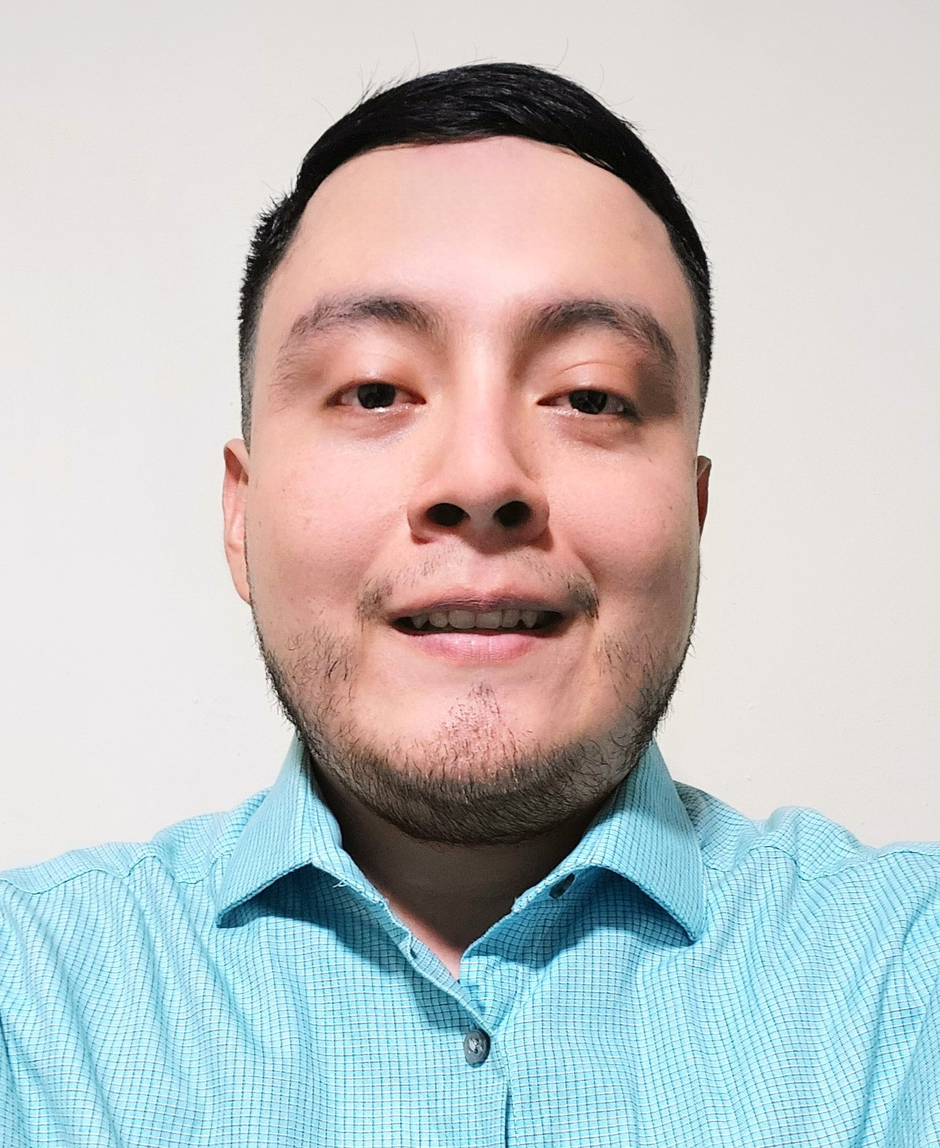
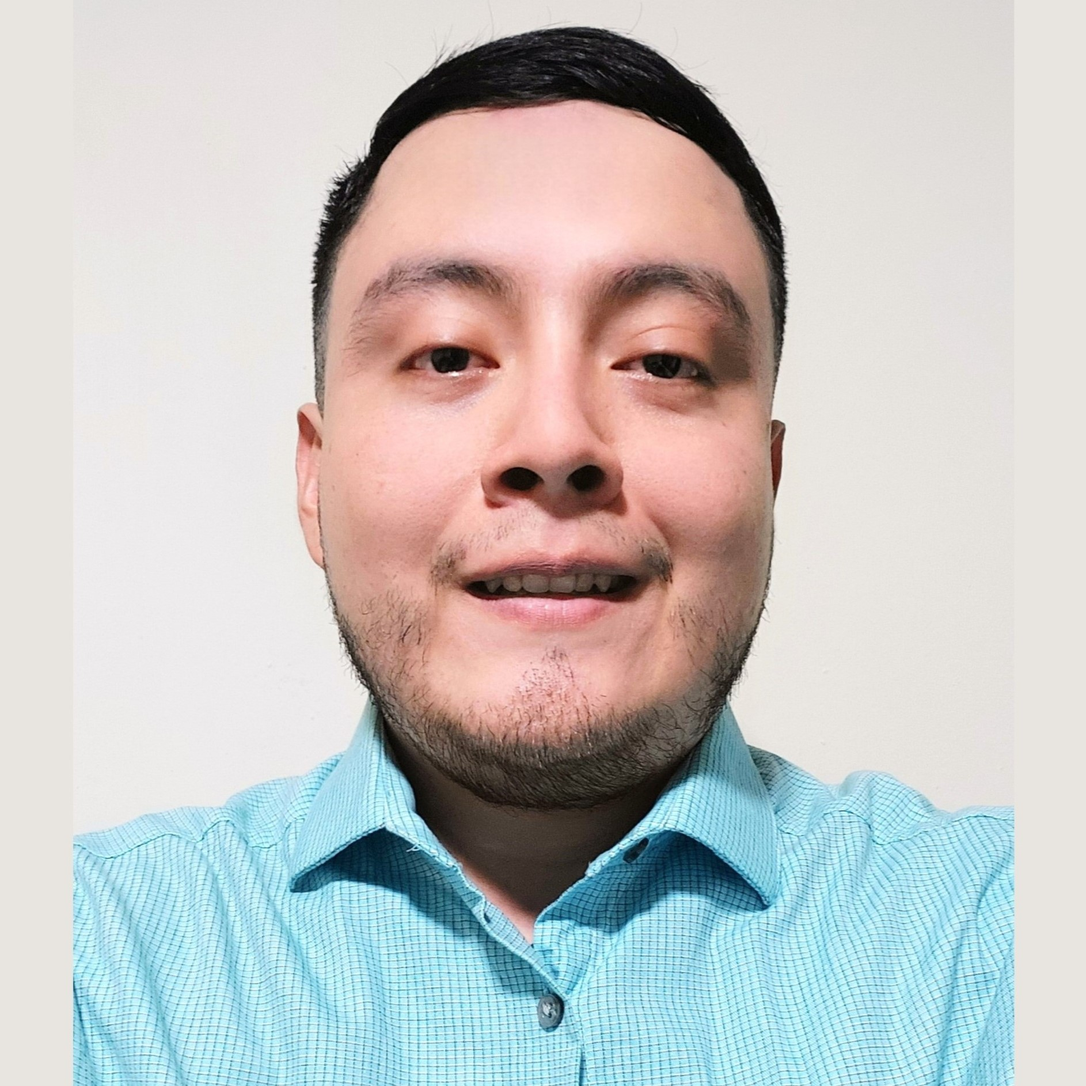
CV_10: Ajustes menores para comenzar lo siguiente parte I

diff --git a/src/app/components/cards/02_contact/Contact.js b/src/app/components/cards/02_contact/Contact.js
@@ -11,11 +11,13 @@ import { faLinkedin } from "@fortawesome/free-brands-svg-icons";
 import "./Contact.scss";
 import Link from "next/link";
 
+const title = "CONTACTO";
+
 let contactData = [
   {
     id: 1,
     icon: faPhone,
-    description: "+503 7989-9172",
+    description: "(503) 7989-9172",
   },
   {
     id: 2,
@@ -30,34 +32,34 @@ let contactData = [
   },
   {
     id: 4,
-    icon: faLocationDot,
-    description: "Apopa, San Salvador",
-  },
-  {
-    id: 5,
     icon: faGlobe,
     description: "Sitio Web",
     url: "https://isaac953.github.io/Portfolio_Angular/home"
   },
   {
-    id: 6,
-    icon: faFileLines,
-    description: "Certificados",
-    url: "https://drive.google.com/drive/folders/1TZRT3fDr4ssvVEgzzyvSfofsoNMXS9pU"
+    id: 5,
+    icon: faLocationDot,
+    description: "Apopa, San Salvador",
   },
+  // {
+  //   id: 6,
+  //   icon: faFileLines,
+  //   description: "Certificados",
+  //   url: "https://drive.google.com/drive/folders/1TZRT3fDr4ssvVEgzzyvSfofsoNMXS9pU"
+  // },
 ];
 
 export const Contact = () => {
   return (
     <section className="contact-card">
-      <h2>Contacto</h2>
+      <h2>{title}</h2>
       {contactData.map((item) => (
         <div key={item.id}>
           <FontAwesomeIcon icon={item.icon} className="font-icon" />
 
           {/* url Hidden no exist */}
           {item.url ? (
-            <Link href={{ pathname: item.url }} target="_blank">
+            <Link href={{ pathname: item.url }} target="_blank" title={item.description}>
               {item.description}
             </Link>
           ) : (

diff --git a/src/app/components/Main.js b/src/app/components/Main.js
@@ -6,20 +6,8 @@ import { Photo } from "./cards/01_photo/Photo";
 import { Contact } from "./cards/02_contact/Contact";
 import { Profile } from "./cards/03_Profile/Profile";
 import { About } from "./cards/04_about/About";
-import ReactDOM from 'react-dom';
-import { PDFViewer } from '@react-pdf/renderer';
-
-import ReactPDF from '@react-pdf/renderer';
-import { PDFDownloadLink, Document, Page } from '@react-pdf/renderer'
-import { MyDocument } from "./cards/MyDocument";
-import { createRoot } from 'react-dom/client';
-import { ViewPDF } from "./cards/ViewPDF";
-
-
 
 export const Main = () => {
-
-
   return (
     <main>
       
@@ -35,8 +23,6 @@ export const Main = () => {
         <About />
         <hr className="hr-bg"></hr>
       </section>  
-
-      {/* <ViewPDF /> */}
 
     </main>
 

diff --git a/src/app/components/cards/03_Profile/Profile.js b/src/app/components/cards/03_Profile/Profile.js
@@ -1,13 +1,13 @@
-import React from 'react';
+import React from "react";
 import "./Profile.scss";
 
 export const Profile = () => {
   let profName = "Isaac Arias";
-  let profTitle = "Ingeniero en Sistemas y Computación"
+  let profTitle = "INGENIERO EN SISTEMAS Y COMPUTACIÓN";
   return (
-    <section className='profile-card'>
-    <span className='name'>{profName}</span>
-    <span className='title'>{profTitle}</span>
+    <section className="profile-card">
+      <span className="name">{profName}</span>
+      <span className="title">{profTitle}</span>
     </section>
-  )
-}
+  );
+};

diff --git a/src/app/components/cards/04_about/About.js b/src/app/components/cards/04_about/About.js
@@ -2,7 +2,7 @@ import React from "react";
 import "./About.scss";
 
 export const About = () => {
-  const title = "Acerca de mí";
+  const title = "ACERCA DE MÍ";
   const description ="Soy Ingeniero en Sistemas y Computación con experiencia en el área de programación de aplicaciones web \
    en el cual he trabajado en base a objetivos brindando soluciones de manera creativa y optima para empresas de tecnología, \
     industriales y ONGs.";

diff --git a/src/app/components/cards/02_contact/Contact.scss b/src/app/components/cards/02_contact/Contact.scss
@@ -22,14 +22,15 @@ h2{
 }
 
 .contact-card span{
-    font-size: 14px;
+    font-size: 16px;
 }
 
 .contact-card a {
-    font-size: 14px;
+    font-size: 16px;
     cursor: pointer;
-    text-decoration: none;
+    text-decoration: underline;
     color: white;
+
 }
 
 .contact-card a:visited {
@@ -37,7 +38,7 @@ h2{
   }
 
 .font-icon{
-    width: 26px;
+    width: 28px;
     height: fit-content;
     margin: 5px;
 }

diff --git a/src/app/components/cards/03_Profile/Profile.scss b/src/app/components/cards/03_Profile/Profile.scss
@@ -9,16 +9,15 @@
     padding-bottom: 15px;
     @include display-flex;
     align-items: flex-start;
+    color: white;
     span{
         margin-left: 20px;
     }
     .name{
-        font-size: 42px;
-        font-weight: bold;
-        color: white;
+        font-size: 40px;
+        font-weight: bold;  
     }
     .title{
-        font-size: 24px;
-        color: white;
+        font-size: 22px;
     }
 }

diff --git a/src/app/components/Header.js b/src/app/components/Header.js
@@ -6,8 +6,13 @@ import "./Layout.scss";
 export const Header = () => {
   return (
     <header>
-      <h1><a>Curriculum</a></h1>
-      <button>Download Image</button>
+      <h1>
+        <a>CURRICULUM PROFESIONAL</a>
+      </h1>
+      <a href="javascript:window.print()" className="print-button">
+        Imprimir
+      </a>
+      {/* <button>Download Image</button> */}
     </header>
   );
 };

diff --git a/src/app/components/cards/01_photo/Photo.scss b/src/app/components/cards/01_photo/Photo.scss
@@ -6,6 +6,7 @@
 }
 
 .photo-card img{
-    width: 150px;
+    width: 170px;
     margin: 15px 0px;
+    border-radius: 50%;
 }

diff --git a/src/app/components/cards/04_about/About.scss b/src/app/components/cards/04_about/About.scss
@@ -13,5 +13,6 @@
     span{
         text-align: justify;
         margin: 0px 20px;
+        font-size: 16px;
     }
 }

diff --git a/README.md b/README.md
@@ -25,3 +25,4 @@ Proyecto creado en React.
 
 - CV_08: **Descripción sobre mí agregados al CV**.
 - CV_09: **Implementar guardar proyecto en archivo PDF**.
+- CV_10: **Ajustes menores para comenzar lo siguiente parte I**.
